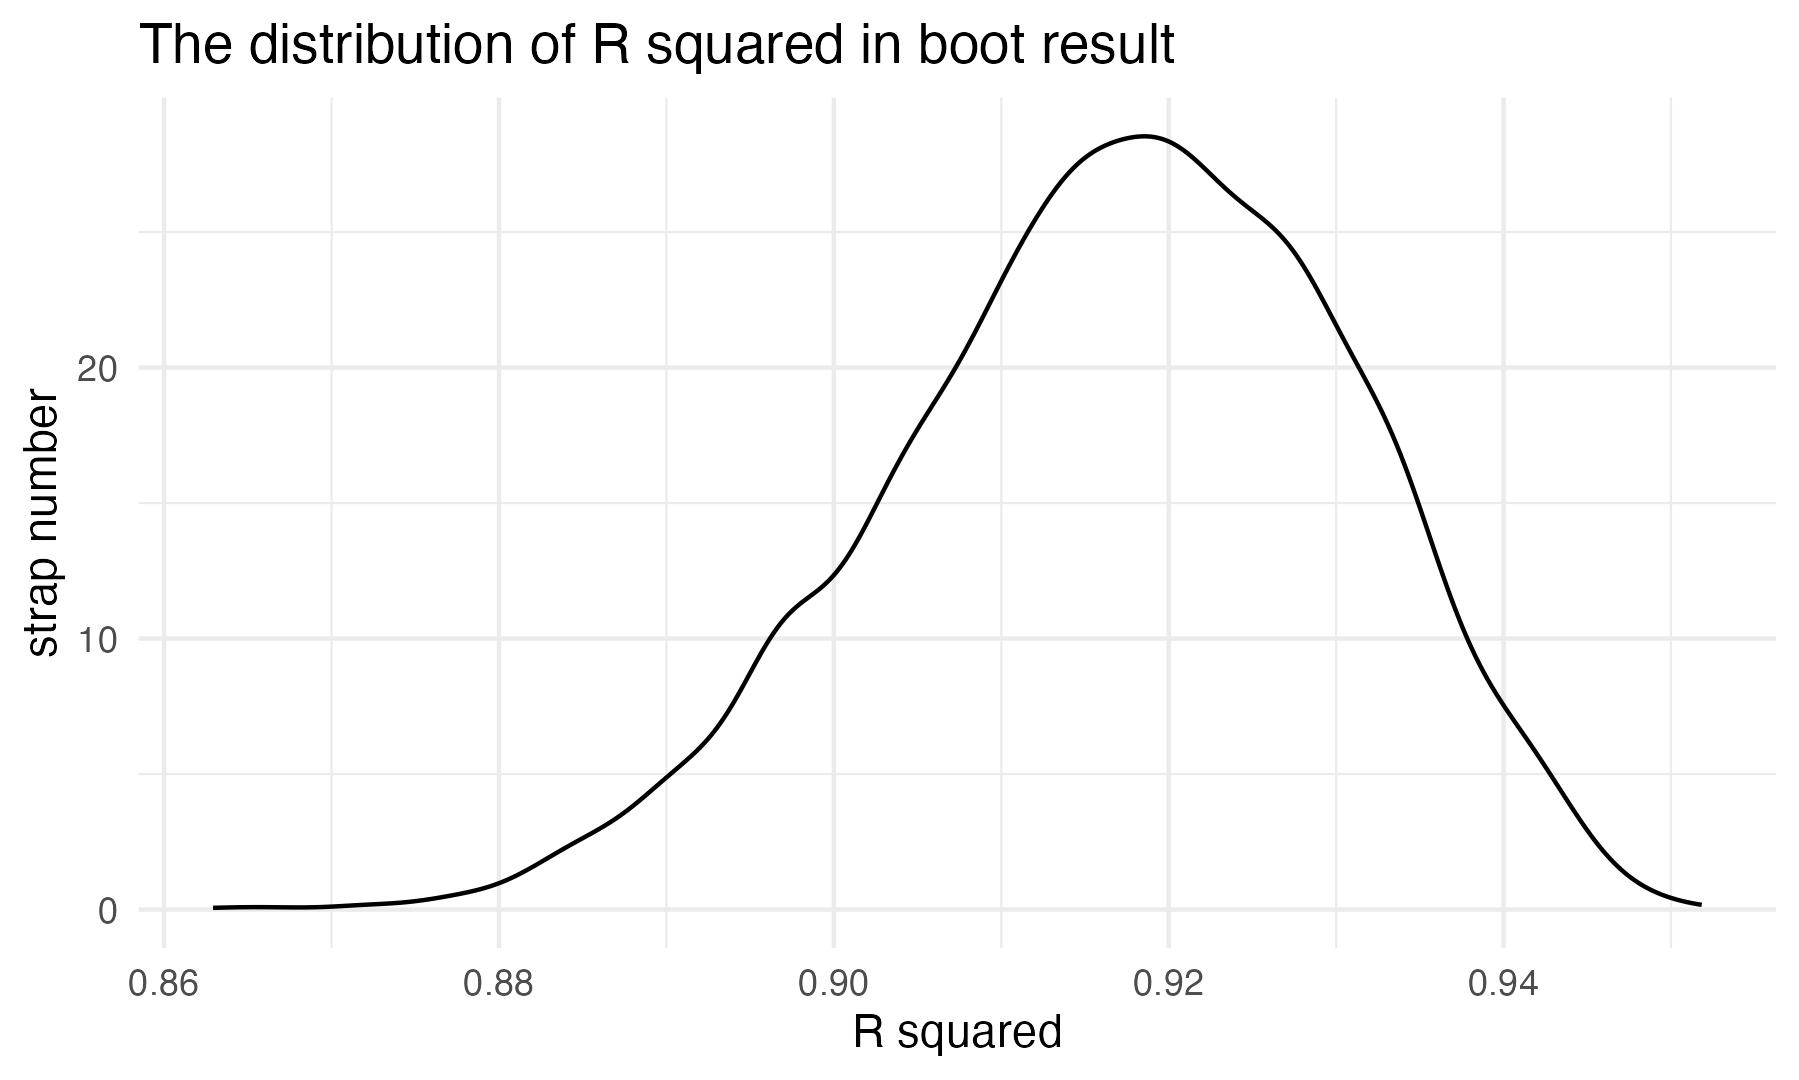
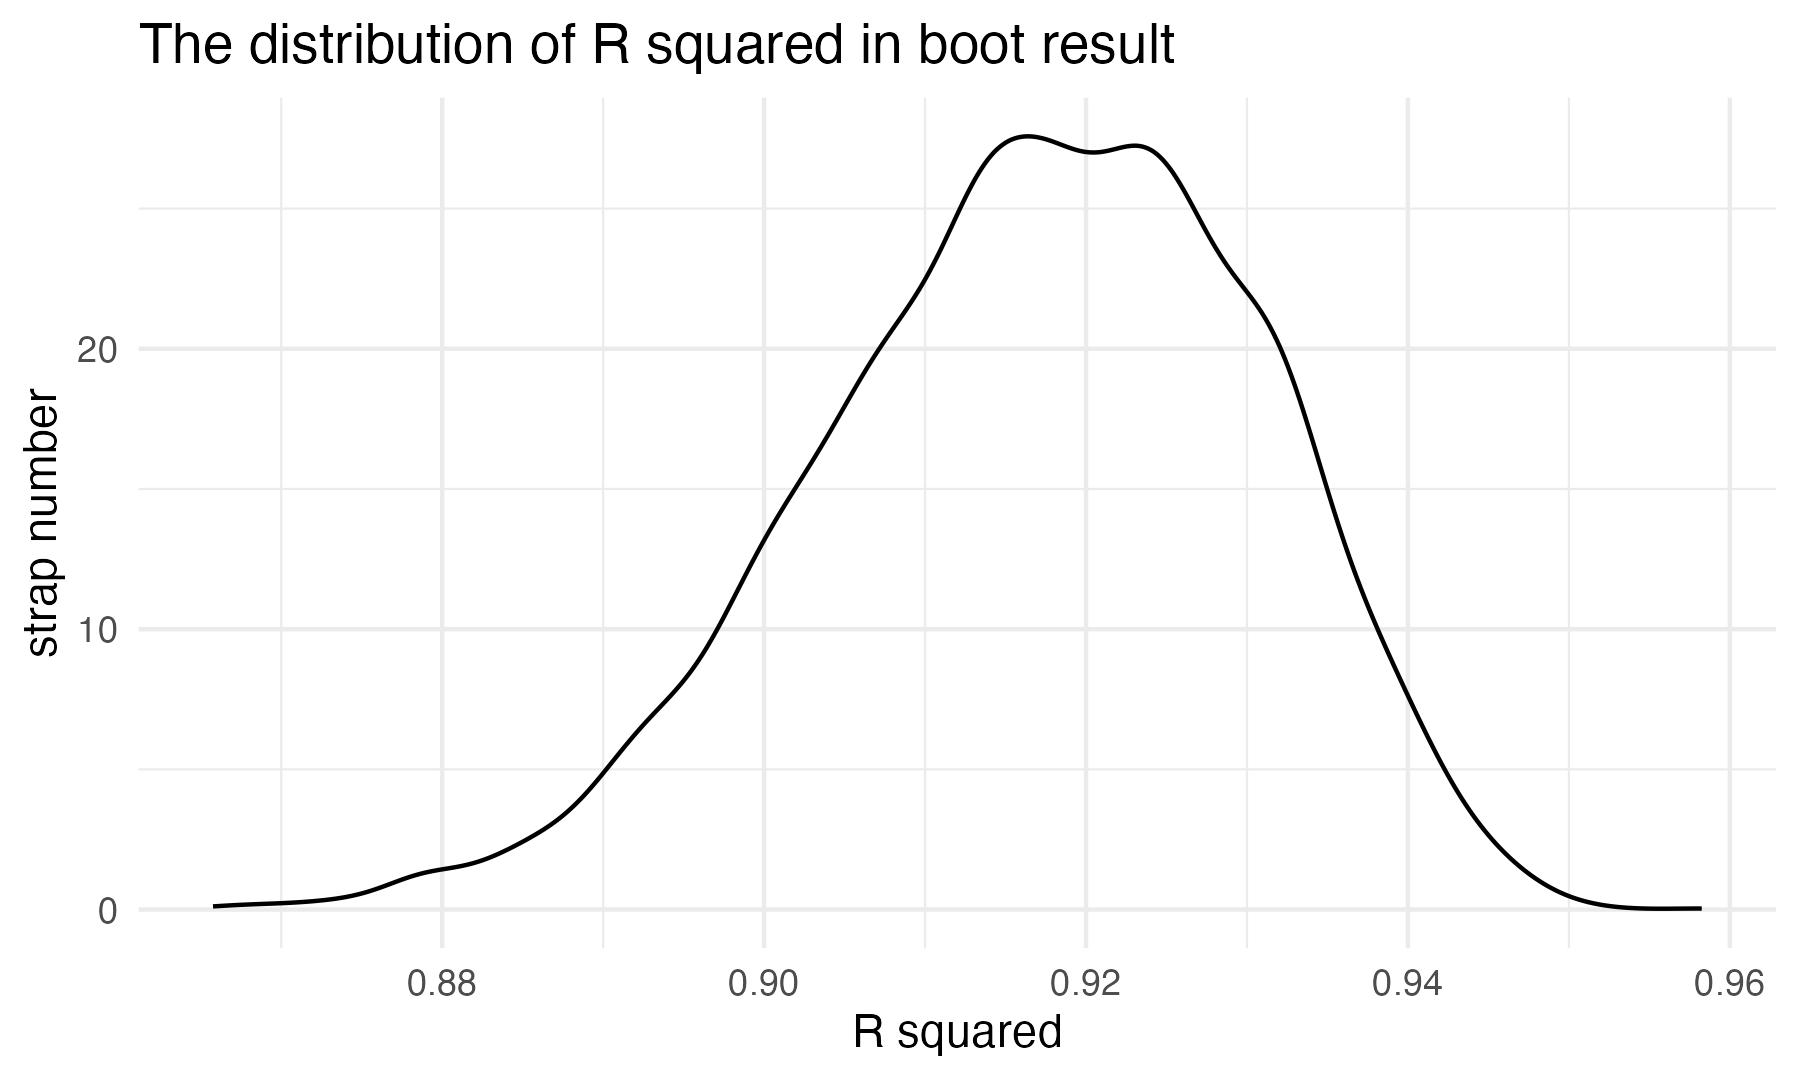
update problem 1

diff --git a/p8105_hw6_zl2746.md b/p8105_hw6_zl2746.md
@@ -5,48 +5,135 @@ Ze Li
 
 ## Problem 1
 
-``` r
-# Load and clean data
-homicide <- read_csv("homicide-data.csv") |>
-  unite(city_state,c(city,state),sep = ', ') |>
-  mutate(solved = ifelse(disposition %in% c("Closed without arrest", "Open/No arrest"), "1","0"),
-         city_state = ifelse(city_state == "Tulsa, AL", "Tulsa, OK", city_state),
-         victim_age = as.numeric(victim_age)) |>
-  filter(!city_state %in% c("Dallas, TX", "Phoenix, AZ", "Kansas City, MO", "Tulsa, OK")) |>
-  filter(victim_race %in% c("White", "Black"))
-```
-
-    ## Rows: 52179 Columns: 12
-    ## ── Column specification ────────────────────────────────────────────────────────
-    ## Delimiter: ","
-    ## chr (9): uid, victim_last, victim_first, victim_race, victim_age, victim_sex...
-    ## dbl (3): reported_date, lat, lon
-    ## 
-    ## ℹ Use `spec()` to retrieve the full column specification for this data.
-    ## ℹ Specify the column types or set `show_col_types = FALSE` to quiet this message.
-
-``` r
-head(homicide)
-```
-
-    ## # A tibble: 6 × 12
-    ##   uid   reported_date victim_last victim_first victim_race victim_age victim_sex
-    ##   <chr>         <dbl> <chr>       <chr>        <chr>            <dbl> <chr>     
-    ## 1 Alb-…      20100601 SATTERFIELD VIVIANA      White               15 Female    
-    ## 2 Alb-…      20100102 MULA        VIVIAN       White               72 Female    
-    ## 3 Alb-…      20100126 BOOK        GERALDINE    White               91 Female    
-    ## 4 Alb-…      20100130 MARTIN-LEY… GUSTAVO      White               56 Male      
-    ## 5 Alb-…      20100218 LUJAN       KEVIN        White               NA Male      
-    ## 6 Alb-…      20100308 GRAY        STEFANIA     White               43 Female    
-    ## # ℹ 5 more variables: city_state <chr>, lat <dbl>, lon <dbl>,
-    ## #   disposition <chr>, solved <chr>
-
 For the city of Baltimore, MD, use the glm function to fit a logistic
 regression with resolved vs unresolved as the outcome and victim age,
 sex and race as predictors. Save the output of glm as an R object; apply
 the broom::tidy to this object; and obtain the estimate and confidence
 interval of the adjusted odds ratio for solving homicides comparing male
 victims to female victims keeping all other variables fixed.
+
+``` r
+# Load and clean data
+homicide_df = 
+  read_csv("homicide-data.csv", na = c("", "NA", "Unknown")) |>
+  unite(city_state,c(city,state),sep = ', ') |>
+  mutate(resolution = case_when(
+      disposition == "Closed without arrest" ~ 0,
+      disposition == "Open/No arrest"        ~ 0,
+      disposition == "Closed by arrest"      ~ 1),
+      city_state = ifelse(city_state == "Tulsa, AL", "Tulsa, OK", city_state),
+         victim_age = as.numeric(victim_age)) |>
+  filter(!city_state %in% c("Dallas, TX", "Phoenix, AZ", "Kansas City, MO", "Tulsa, OK")) |>
+  filter(victim_race %in% c("White", "Black")) |>
+  select(city_state, resolution, victim_age, victim_sex, victim_race)
+```
+
+    ## Rows: 52179 Columns: 12
+    ## ── Column specification ────────────────────────────────────────────────────────
+    ## Delimiter: ","
+    ## chr (8): uid, victim_last, victim_first, victim_race, victim_sex, city, stat...
+    ## dbl (4): reported_date, victim_age, lat, lon
+    ## 
+    ## ℹ Use `spec()` to retrieve the full column specification for this data.
+    ## ℹ Specify the column types or set `show_col_types = FALSE` to quiet this message.
+
+``` r
+head(homicide_df)
+```
+
+    ## # A tibble: 6 × 5
+    ##   city_state      resolution victim_age victim_sex victim_race
+    ##   <chr>                <dbl>      <dbl> <chr>      <chr>      
+    ## 1 Albuquerque, NM          0         15 Female     White      
+    ## 2 Albuquerque, NM          0         72 Female     White      
+    ## 3 Albuquerque, NM          0         91 Female     White      
+    ## 4 Albuquerque, NM          0         56 Male       White      
+    ## 5 Albuquerque, NM          0         NA Male       White      
+    ## 6 Albuquerque, NM          1         43 Female     White
+
+Next we fit a logistic regression model using only data from Baltimore,
+MD. We model `resolved` as the outcome and `victim_age`, `victim_sex`,
+and `victim_race` as predictors. We save the output as `baltimore_glm`
+so that we can apply `broom::tidy` to this object and obtain the
+estimate and confidence interval of the adjusted odds ratio for solving
+homicides comparing non-white victims to white victims.
+
+``` r
+baltimore_glm = 
+  filter(homicide_df, city_state == "Baltimore, MD") |> 
+  glm(resolution ~ victim_age + victim_sex + victim_race, family = binomial(), data = _)
+
+baltimore_glm |> 
+  broom::tidy() |> 
+  mutate(
+    OR = exp(estimate), 
+    OR_CI_upper = exp(estimate + 1.96 * std.error),
+    OR_CI_lower = exp(estimate - 1.96 * std.error)) |> 
+  filter(term == "victim_sexMale") |> 
+  select(OR, OR_CI_lower, OR_CI_upper) |>
+  knitr::kable(digits = 3)
+```
+
+|    OR | OR_CI_lower | OR_CI_upper |
+|------:|------------:|------------:|
+| 0.426 |       0.325 |       0.558 |
+
+Below, by incorporating `nest()`, `map()`, and `unnest()` into the
+preceding Baltimore-specific code, we fit a model for each of the
+cities, and extract the adjusted odds ratio (and CI) for solving
+homicides comparing non-white victims to white victims. We show the
+first 5 rows of the resulting dataframe of model results.
+
+``` r
+model_results = 
+  homicide_df |> 
+  nest(data = -city_state) |> 
+  mutate(
+    models = map(data, \(df) glm(resolution ~ victim_age + victim_sex + victim_race, 
+                             family = binomial(), data = df)),
+    tidy_models = map(models, broom::tidy)) |> 
+  select(-models, -data) |> 
+  unnest(cols = tidy_models) |> 
+  mutate(
+    OR = exp(estimate), 
+    OR_CI_upper = exp(estimate + 1.96 * std.error),
+    OR_CI_lower = exp(estimate - 1.96 * std.error)) |> 
+  filter(term == "victim_sexMale") |> 
+  select(city_state, OR, OR_CI_lower, OR_CI_upper)
+
+model_results |>
+  slice(1:5) |> 
+  knitr::kable(digits = 3)
+```
+
+| city_state      |    OR | OR_CI_lower | OR_CI_upper |
+|:----------------|------:|------------:|------------:|
+| Albuquerque, NM | 1.767 |       0.831 |       3.761 |
+| Atlanta, GA     | 1.000 |       0.684 |       1.463 |
+| Baltimore, MD   | 0.426 |       0.325 |       0.558 |
+| Baton Rouge, LA | 0.381 |       0.209 |       0.695 |
+| Birmingham, AL  | 0.870 |       0.574 |       1.318 |
+
+Below we generate a plot of the estimated ORs and CIs for each city,
+ordered by magnitude of the OR from smallest to largest. From this plot
+we see that most cities have odds ratios that are smaller than 1,
+suggesting that crimes with male victims have smaller odds of resolution
+compared to crimes with female victims after adjusting for victim age
+and race. This disparity is strongest in New yrok. In roughly half of
+these cities, confidence intervals are narrow and do not contain 1,
+suggesting a significant difference in resolution rates by sex after
+adjustment for victim age and race.
+
+``` r
+model_results |> 
+  mutate(city_state = fct_reorder(city_state, OR)) |> 
+  ggplot(aes(x = city_state, y = OR)) + 
+  geom_point() + 
+  geom_errorbar(aes(ymin = OR_CI_lower, ymax = OR_CI_upper)) + 
+  theme(axis.text.x = element_text(angle = 90, hjust = 1))
+```
+
+<img src="p8105_hw6_zl2746_files/figure-gfm/q1_plot-1.png" width="90%" />
 
 ## Problem 2
 
@@ -135,16 +222,16 @@ boot_results2
     ## # A tibble: 5,000 × 6
     ##    strap_number r_squared `(Intercept)`  tmin      prcp log_beta
     ##           <int>     <dbl>         <dbl> <dbl>     <dbl>    <dbl>
-    ##  1            1     0.924          8.16 1.02  -0.00629    NaN   
-    ##  2            2     0.916          8.39 1.01  -0.00371    NaN   
-    ##  3            3     0.912          7.96 1.00   0.00632     -5.06
-    ##  4            4     0.934          7.69 1.05  -0.00608    NaN   
-    ##  5            5     0.896          8.46 0.969  0.00483     -5.36
-    ##  6            6     0.923          7.94 1.03  -0.000928   NaN   
-    ##  7            7     0.940          7.29 1.06  -0.00516    NaN   
-    ##  8            8     0.943          7.75 1.05  -0.00651    NaN   
-    ##  9            9     0.905          8.37 0.980  0.00297     -5.84
-    ## 10           10     0.910          8.13 1.01   0.00122     -6.70
+    ##  1            1     0.905          8.01 1.02  -0.00372    NaN   
+    ##  2            2     0.936          7.74 1.05  -0.00793    NaN   
+    ##  3            3     0.911          8.02 0.998  0.00506     -5.29
+    ##  4            4     0.898          8.33 0.987 -0.000612   NaN   
+    ##  5            5     0.905          8.49 0.976  0.000237    -8.37
+    ##  6            6     0.897          8.35 0.999  0.000600    -7.42
+    ##  7            7     0.909          8.28 1.01  -0.00197    NaN   
+    ##  8            8     0.888          8.17 0.975  0.00774     -4.89
+    ##  9            9     0.906          8.15 1.01   0.00519     -5.25
+    ## 10           10     0.932          8.18 1.03  -0.00663    NaN   
     ## # ℹ 4,990 more rows
 
 ``` r
@@ -157,7 +244,7 @@ boot_results2 |>
   ggtitle("The distribution of tmin in boot result")
 ```
 
-<img src="p8105_hw6_zl2746_files/figure-gfm/unnamed-chunk-5-1.png" width="90%" />
+<img src="p8105_hw6_zl2746_files/figure-gfm/unnamed-chunk-3-1.png" width="90%" />
 
 ``` r
 ggsave("The distribution of tmin in boot result for problem 2.jpg")
@@ -175,7 +262,7 @@ boot_results2 |>
   ggtitle("The distribution of prcp in boot result")
 ```
 
-<img src="p8105_hw6_zl2746_files/figure-gfm/unnamed-chunk-5-2.png" width="90%" />
+<img src="p8105_hw6_zl2746_files/figure-gfm/unnamed-chunk-3-2.png" width="90%" />
 
 ``` r
 ggsave("The distribution of prcp in boot result for problem 2.jpg")
@@ -193,7 +280,7 @@ boot_results2 |>
   ggtitle("The distribution of log(beta1*beta2) in boot result")
 ```
 
-<img src="p8105_hw6_zl2746_files/figure-gfm/unnamed-chunk-5-3.png" width="90%" />
+<img src="p8105_hw6_zl2746_files/figure-gfm/unnamed-chunk-3-3.png" width="90%" />
 
 ``` r
 ggsave("The distribution of log(beta1*beta2) in boot result for problem 2.jpg")
@@ -211,7 +298,7 @@ boot_results2 |>
   ggtitle("The distribution of R squared in boot result")
 ```
 
-<img src="p8105_hw6_zl2746_files/figure-gfm/unnamed-chunk-5-4.png" width="90%" />
+<img src="p8105_hw6_zl2746_files/figure-gfm/unnamed-chunk-3-4.png" width="90%" />
 
 ``` r
 ggsave("The distribution of R squared in boot result for problem 2.jpg")
@@ -253,7 +340,7 @@ fraction = nrow(valid_log)/5000
 fraction
 ```
 
-    ## [1] 0.3344
+    ## [1] 0.3356
 
 ``` r
 # construct a CI for log(beta1*beta2)
@@ -268,7 +355,7 @@ boot_results2 |>
     ## # A tibble: 1 × 2
     ##   ci_lower ci_upper
     ##      <dbl>    <dbl>
-    ## 1    -8.95    -4.55
+    ## 1    -9.10    -4.57
 
 ``` r
 # construct a CI for r squared
@@ -282,7 +369,9 @@ boot_results2 |>
     ## # A tibble: 1 × 2
     ##   ci_lower ci_upper
     ##      <dbl>    <dbl>
-    ## 1    0.889    0.941
+    ## 1    0.888    0.941
+
+**There is only 0.3356 of dataset can be used for log(beta1 \* beta2).**
 
 ## Problem 3
 
@@ -370,7 +459,7 @@ ggplot(birthweight_df, aes(x = pred, y = resid)) +
   ylab("Residuals")
 ```
 
-<img src="p8105_hw6_zl2746_files/figure-gfm/unnamed-chunk-8-1.png" width="90%" />
+<img src="p8105_hw6_zl2746_files/figure-gfm/unnamed-chunk-6-1.png" width="90%" />
 
 - One using length at birth and gestational age as predictors (main
   effects only)
@@ -600,4 +689,4 @@ cv_results |>
   geom_violin()
 ```
 
-<img src="p8105_hw6_zl2746_files/figure-gfm/unnamed-chunk-12-1.png" width="90%" />
+<img src="p8105_hw6_zl2746_files/figure-gfm/unnamed-chunk-10-1.png" width="90%" />
